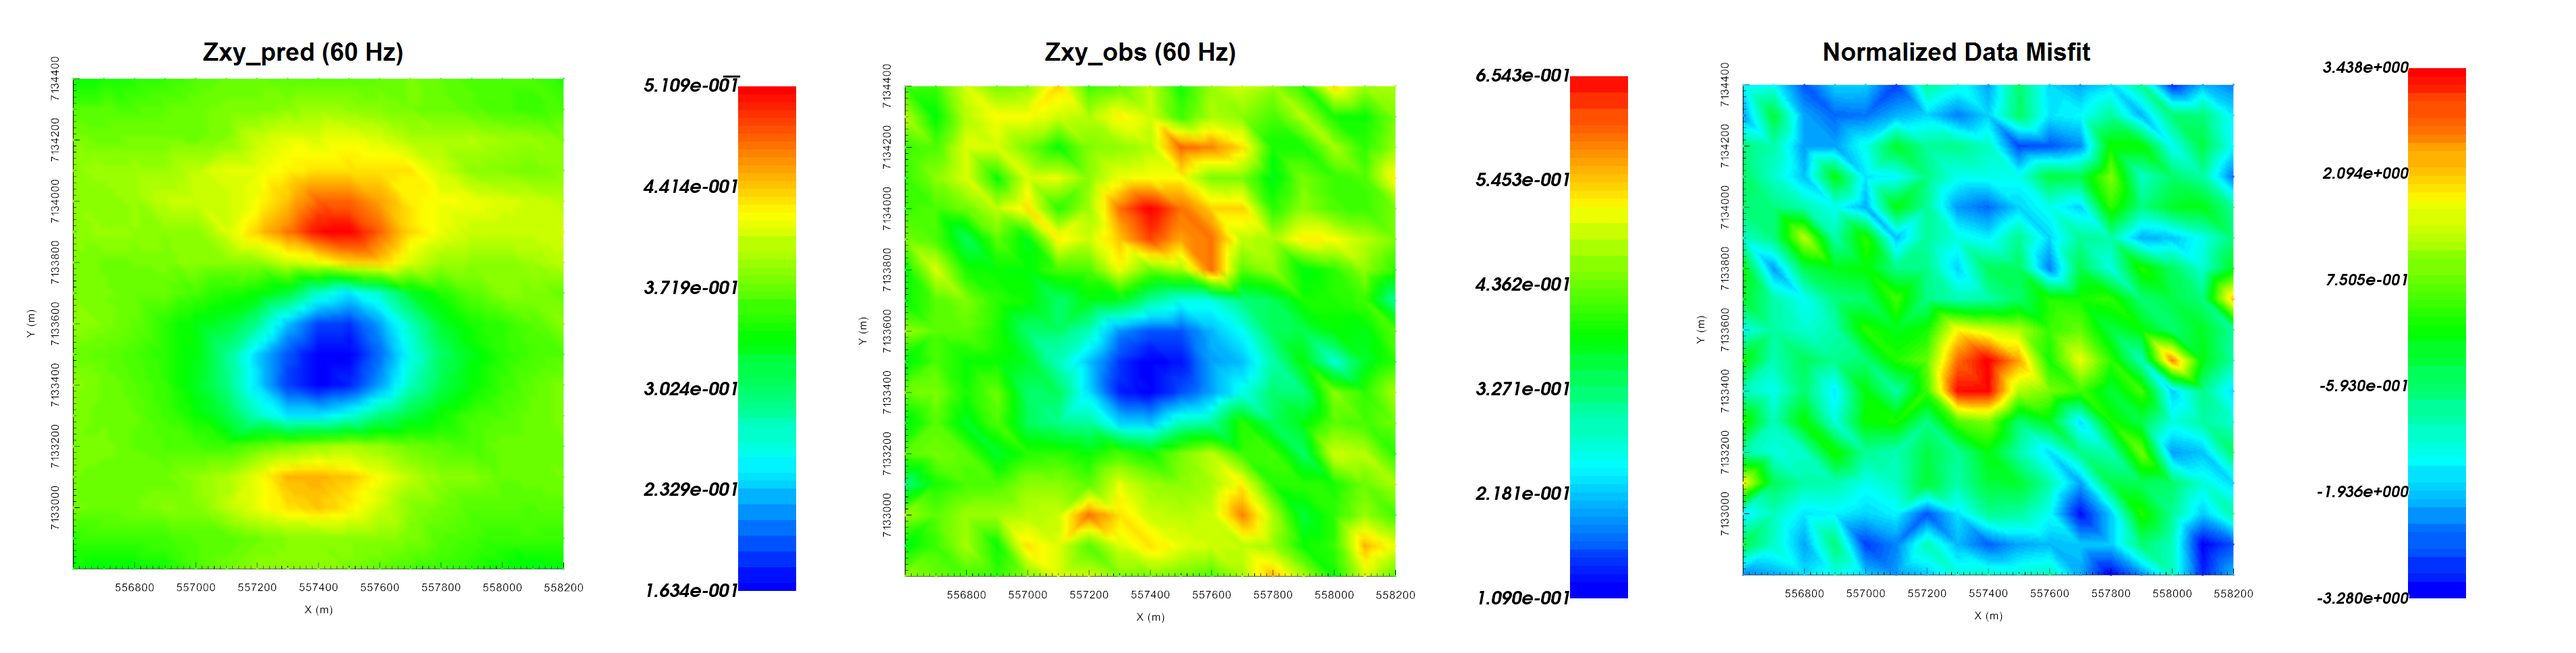
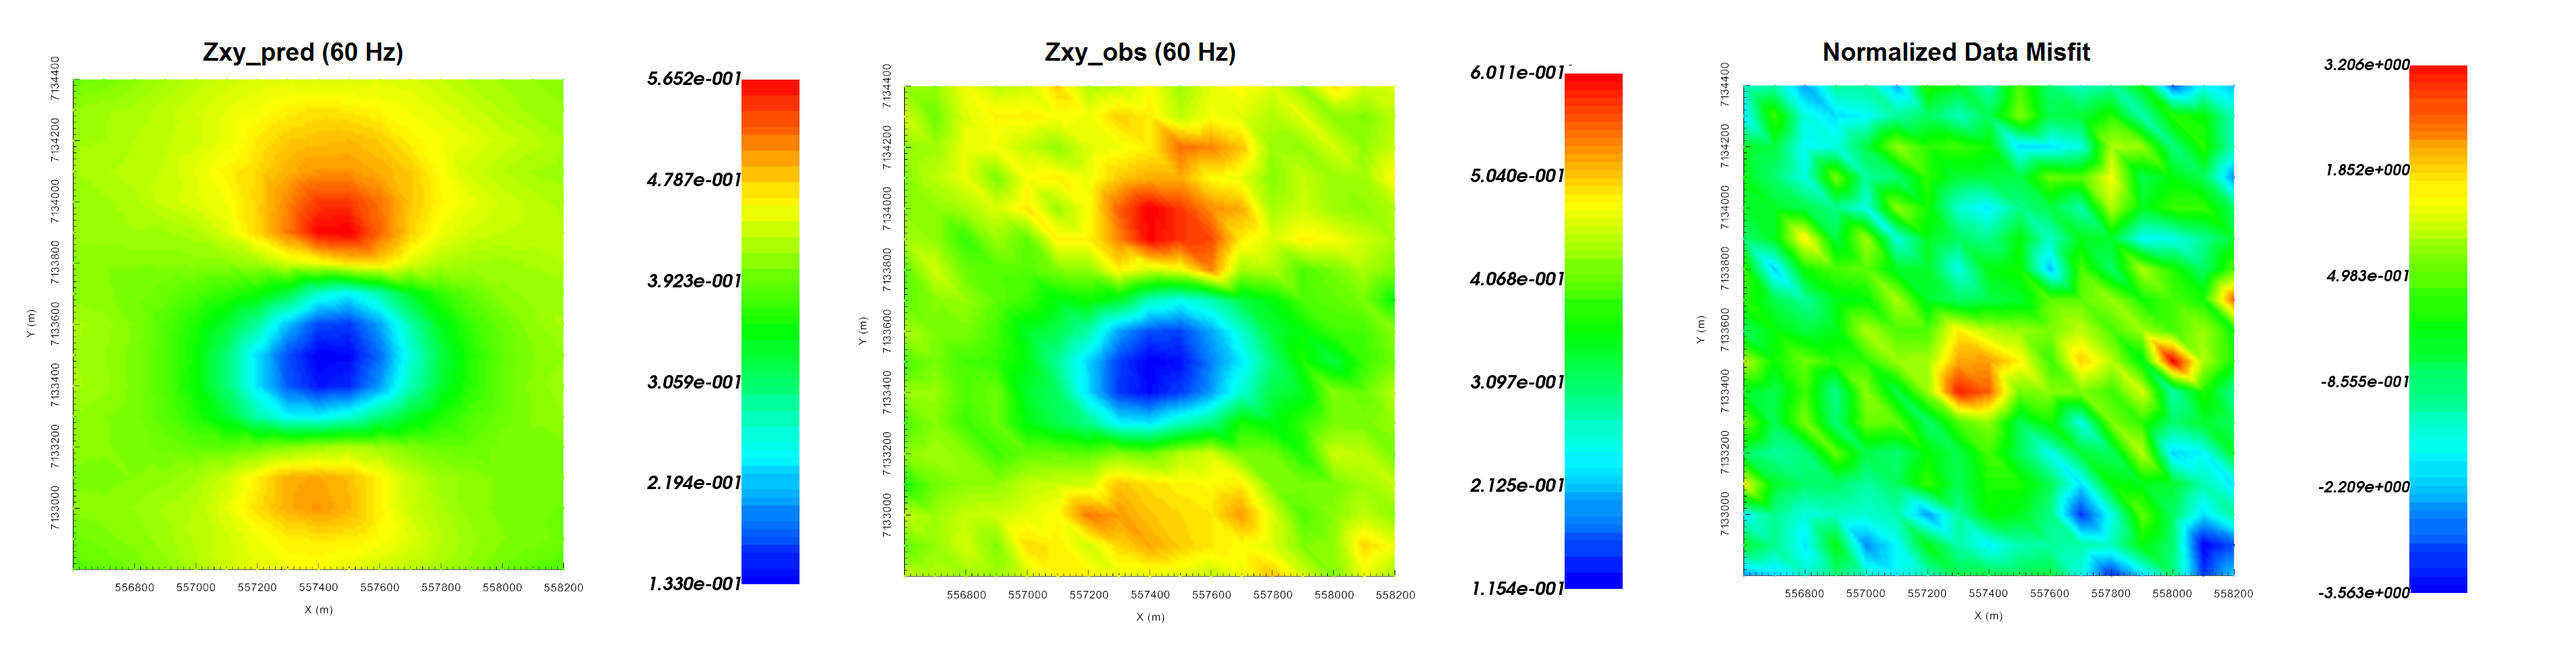
Fix MT example

diff --git a/content/AtoZ/NS/data.rst b/content/AtoZ/NS/data.rst
@@ -39,7 +39,7 @@ Import Files
     - **Pro tip:** To avoid confusion between location and data coordinate systems, use the :ref:`set data headers <objectDataHeaders>` tool to define location columns as *Easting, Northing* and *Elevation*.
 
 
-.. important:: In this case, MT and ZTEM data are in a widely used coordinate system which matches that of the GIF codes; see `GIF data format conventions<sign_conv>`. If a non-standard coordinate system is being used in the EDI files, it is imperative the user transform the data to GIF within GIFtools before inverting. This can be done by :ref:`changing data headers <objectDataHeaders>`, :ref:`multiplying certain columns by -1 <objectCalculator>` and/or :ref:`re-setting io Headers <objectSetioHeaders>`.
+.. important:: In this case, MT and ZTEM data are in a widely used coordinate system which matches that of the GIF codes; see :ref:`GIF data format conventions <signConvention>`. If a non-standard coordinate system is being used in the EDI files, it is imperative the user transform the data to GIF within GIFtools before inverting. This can be done by :ref:`changing data headers <objectDataHeaders>`, :ref:`multiplying certain columns by -1 <objectCalculator>` and/or :ref:`re-setting io Headers <objectSetioHeaders>`. To get addition background information on the coordinate systems used by the E3DMT codes, see the theory sections of the `version 1 <https://e3dmt.readthedocs.io/en/e3dmt/content/theory.html#>`_ and `version 2 <https://e3dmt.readthedocs.io/en/e3dmt_v2/content/theory.html#>`_ manuals.
 
 
 MT data
@@ -50,24 +50,24 @@ Interpretation through apparent resistivity
 
 By examining the impedances, apparent resistivities and phases, we can determine if the units of the data are correct and whether the data are in GIF format.
 
-    - Use VTK to image the off-axis impedance tensor elements :math:`Z_{xy}` and :math:`Z_{yx}`. Notice that:
+    - Use VTK to image the off-axis impedance tensor elements :math:`Z_{xy}` and :math:`Z_{yx}`. Notice that when looking at the background response:
 
         - :math:`Z_{xy}` data are in the lower-right-hand corner of the complex plane :math:`Z_{yx}` data are in the upper-left-hand corner of the complex plane
         - This is consistent with data that is in :ref:`GIFtools format <sign_mt_conv>`
 
     - :ref:`Convert impedances to apparent resistivity and phase <objectDataManipulationMT_IMP2APP>`
 
-    - Use VTK to image the apparent resistivities derived from the off-axis impedance tensor elements (image on log-scale). Notice that:
+    - Use VTK to image the apparent resistivities derived from the off-axis impedance tensor elements (image on log-scale). When looking at :math:`Z_{xy}` and :math:`Z_{yx}` for all frequencies we found that:
 
-        - The near surface resistivity of the background (:math:`\sim 200 \; \Omega m`) is less than the resistivity of the background at depth (:math:`\sim 1000 \; \Omega m`).
-        - The MT anomaly is caused by a conductor (:math:`\rho_a \sim 10^2 \, \Omega m`) and that conductor is likely does not extend to the surface.
+        - the near surface resistivity of the background (:math:`\sim 200 \; \Omega m`) is less than the resistivity of the background at depth (:math:`\sim 1000 \; \Omega m`).
+        - the MT anomaly is caused by a conductor (:math:`\rho_a \sim 10^2 \, \Omega m`) and that the conductor does not extend to the surface.
 
 
 .. figure:: ../../../images/AtoZ_E3DMT/data_impedance.png
     :align: center
     :width: 700
 
-    Real (left) and imaginary (right) components of impedance tensor element :math:`Z_{xy}` at 60 Hz in V/A. Data shows that :math:`Z_{xy}` lies in the lower-righthand quadrant of the complex plane. This is consistent with the desired format in GIFtools.
+    Real (left) and imaginary (right) components of impedance tensor elements :math:`Z_{xy}` and :math:`Z_{yx}` at 60 Hz in V/A.
 
 
 .. figure:: ../../../images/AtoZ_E3DMT/data_appres.png
@@ -82,7 +82,7 @@ Assigning uncertainties
 
 Assigning appropriate uncertainties to the data is necessary for running stable and successful inversions with GIFtools. For this exercise, we will apply simple uncertainties.
 
-    - Use :ref:`assign simple uncertainties <objectAssignUncert>` to generate uncertainties for the data. For off-diagonal impedance tensor elements, apply uncertainties of of 0.005 V/A + 10%. For all diagonal impedance tensor elements, apply uncertainties of 0.005 V/A + 20%.
+    - Use :ref:`assign simple uncertainties <objectAssignUncert>` to generate uncertainties for the data. For all data apply uncertainties of 0.0025 V/A + 5%.
     - Ensure that :ref:`IO headers are set <objectSetioHeaders>` for all uncertainties.
 
 .. important:: To demonstrate the E3DMT codes, we have chosen to apply simple uncertainties. In practice, we must ensure that we do not overfit certain frequencies and locations at the expense of others.
@@ -129,13 +129,13 @@ By examining the data, we can determine if they are in GIF format.
 
     - Use VTK to image the ZTEM data. Notice that over a compact body:
 
-        - The anomalous values in :math:`T_{zx}` lie to the North and South of the known conductor; whereas the anomalous values in :math:`T_{zy}` lie to the East and West of the known conductor. This is consistent with the data coordinates used by GIF.
+        - The anomalous values in :math:`T_{zx}` lie to the North and South of the pipe; whereas the anomalous values in :math:`T_{zy}` lie to the East and West of the pipe. For a base station which lies away from any lateral conductivity changes, this is consistent with the GIF codes.
         - When comparing real and imaginary data, the sign of the anomalies of opposite, indicating a Fourier convention of :math:`e^{-i \omega t}`. This is consistent with GIF codes.
 
     - Geosoft XYZ data files do not contain the base station location so we must define it. Thus:
 
-        - `Set base station <objectDataTypeZTEM_basestn>` at Easting = 556,600 m, Northing = 7,132,800 m and Elevation = 400 m.
-        - `Set ZTEM data type <objectDataTypeZTEM_datatype>` to *MTT*. If this is not done, horizontal fields are measured at the observation locations and not at the base station.
+        - :ref:`Set base station <objectDataTypeZTEM_basestn>` at Easting = 556,600 m, Northing = 7,132,800 m and Elevation = 400 m.
+        - :ref:`Set ZTEM data type <objectDataTypeZTEM_datatype>` to *MTT*. If this is not done, horizontal fields are measured at the observation locations and not at the base station.
 
 
 .. figure:: ../../../images/AtoZ_E3DMT/data_ztem.png
@@ -150,8 +150,21 @@ Assigning uncertainties
 
 Assigning appropriate uncertainties to the data is necessary for running stable and successful inversions with GIFtools. For this exercise, we will apply simple uncertainties.
 
-    - Use :ref:`assign simple uncertainties <objectAssignUncert>` to generate uncertainties for the data. For all data apply uncertainties of 0.001 V/A + 10%.
+    - Use :ref:`assign simple uncertainties <objectAssignUncert>` assign uncertainties to the data. Assign a floor equal to 5% the maximum value in amplitude for each component and for each frequency. The frequencies we chose are tabulated below.
     - Ensure that :ref:`IO headers are set <objectSetioHeaders>` for all uncertainties.
+
+
++---------------+--------------------------+---------------------------+
+| **Component** | :math:`\epsilon` at 60 Hz| :math:`\epsilon` at 360 Hz|
++===============+==========================+===========================+
+| TZXR          | 0.0025                   | 0.0038                    |
++---------------+--------------------------+---------------------------+
+| TZXI          | 0.001                    | 0.0006                    |
++---------------+--------------------------+---------------------------+
+| TZYR          | 0.0037                   | 0.0049                    |
++---------------+--------------------------+---------------------------+
+| TZYI          | 0.0015                   | 0.0012                    |
++---------------+--------------------------+---------------------------+
 
 .. important:: To demonstrate the E3DMT codes, we have chosen to apply simple uncertainties. In practice, we must ensure that we do not overfit certain frequencies and locations at the expense of others.
 

diff --git a/content/AtoZ/NS/mt_inversion.rst b/content/AtoZ/NS/mt_inversion.rst
@@ -11,7 +11,7 @@ The goal is to provide strategies for successful inversion and show that both co
 When inverting impedances, the E3DMT codes have a tendency to place conductive artifacts proximal to the receivers.
 To overcome this obstacle, we demonstrate a basic approach for limiting artifacts through the use of interface weights.
 
-..important:: The MT data are in GIF format; see `GIF data conventions page <signConvention>`. This means the locations are Easting-Northing-Elevation. The data convention is defined X = Northing, Y = Easting and Z = Down. Failure to recognize this will cause incorrect interpretation of the data.
+.. important:: The MT data are in GIF format; see :ref:`GIF data conventions page <signConvention>`. This means the locations are Easting-Northing-Elevation. The data convention however is defined X = Northing, Y = Easting and Z = Down. Failure to recognize this will cause incorrect interpretation of the data. To get addition background information on the coordinate systems used by the E3DMT codes, see the theory sections of the `version 1 <https://e3dmt.readthedocs.io/en/e3dmt/content/theory.html#>`_ and `version 2 <https://e3dmt.readthedocs.io/en/e3dmt_v2/content/theory.html#>`_ manuals.
 
 
 .. _AtoZNS_mt_inversion_setup:
@@ -52,7 +52,7 @@ Setup for the Exercise
 
 
 
-.. important:: Data were generated using E3DMT version 2 and a block model approximating TKC. To keep things simple, a constant topography of 400 m. Uncertainties of 0.005 :math:`\pm` 10% were added to all off-diagonal impedance tensor measurements. Uncertainties of 0.005 :math:`\pm` 20% were added to all diagonal impedance tensor measurements.
+.. important:: Data were generated using E3DMT version 2 and a block model approximating TKC. To keep things simple, a constant topography of 400 m. Uncertainties of 0.0025 :math:`\pm` 5% were added to all impedance tensor measurements.
 
 
 Reducing Artifacts through Interface Weighting
@@ -66,7 +66,7 @@ When inverting MT data, the E3DMT codes have a tendency to place conductive stru
         - set the OcTree mesh
         - set as *log model*
         - set topography as the active cells model
-        - set 4 layers of surface weights with values 20, 10, 5, and 2.5 in decreasing order
+        - set 3 layers of surface weights with values 10, 5, and 2.5 in decreasing order
         - Face value = 0.01
         - Face tolerance = 0.01
 
@@ -92,13 +92,12 @@ Let us now invert the impedance tensor data using E3DMT version 1.
             - Use *Iterative* solver unless you have sufficient RAM to use *Direct* solver.
 
         - Model Options Tab:
-            - Set *Beta cooling schedule* to 'custom by clicking button'. Use *beta max = 0.7*, *beta min = 1e-6* and *reduction factor = 0.2*
-            - Set *Chi Factor* = 1.
-            - *alpha S* = 0.0004, *alpha E* = 1, *alpha N* = 1 and *alpha Z* = 4 (to balance regularization terms based on cell dimensions)
+            - Set *Beta cooling schedule* to 'custom by clicking button'. Use *beta max = 1*, *beta min = 1e-8* and *reduction factor = 0.25*
+            - Set *Chi Factor* = 0.8 since E3DMT version 1 uses a non-standard measure of data misfit; `see manual <https://e3dmt.readthedocs.io/en/e3dmt/content/theory.html#data-misfit>`
+            - *alpha S* = 1e-10, *alpha E* = 1, *alpha N* = 1 and *alpha Z* = 2.56 (to recover smoothest model and gradient terms based on cell dimensions)
             - Use the weights object to add additional weights
             - Set the *active cells topo* as the active model cells
             - Set initial model as 0.001 S/m
-            - Set upper bound as 0.5 S/m and lower bound as 0.00001 S/m
             - Set reference model as 0.001 S/m
             - Set role in model objective function to *SMOOTH_MOD_DIF*
 
@@ -108,13 +107,13 @@ Let us now invert the impedance tensor data using E3DMT version 1.
     - :ref:`View convergence <convergence_curve>`
 
 
-The results of the inversion are shown below. We are able to recover the thickness and conductivity of the conductive overburden (:math:`\sigma \approx 0.005` S/m). We are also able to recover the approximate depth to the pipe (~100 m). Because we are not especially sensitive, it is difficult for the inversion to recover the base of the pipe.
+The results of the inversion are shown below. We are able to recover conductive pipe and estimate the thickness of the conductive overburden (:math:`\sigma \approx 0.005` S/m). We are also able to recover the approximate depth to the pipe (~100 m) and the pipe's general shape.
 
-The inversion reaches target misfit after 4 iterations. The model norm is discontinuous because the current model is set to be the reference model for the next beta value.
-The recovered model is able to reproduce the observed anomaly overall; although some of the larger normalized misfits lie on top of the anomaly.
+The inversion reaches target misfit after 3 iterations. The model norm is discontinuous because the current model is set to be the reference model for the next beta value.
+The recovered model is able to reproduce the observed anomaly quite well. And misfit map indicated we are fitting each component of the data evenly.
 
 
-.. figure:: ../../../images/AtoZ_E3DMT/inv_mt_v1_iter04.png
+.. figure:: ../../../images/AtoZ_E3DMT/inv_mt_v1_iter03.png
     :align: center
     :width: 700
 
@@ -167,13 +166,12 @@ Let us now invert the impedance tensor data using E3DMT version 2. Unlike versio
             - Use *Iterative* solver unless you have sufficient RAM to use *Direct* solver.
 
         - Model Options Tab:
-            - Set *Beta cooling schedule* to 'custom by clicking button'. Use *beta max = 0.7*, *beta min = 1e-6* and *reduction factor = 0.2*
-            - Set *Chi Factor* = 1.
-            - *alpha S* = 0.0004, *alpha E* = 1, *alpha N* = 1 and *alpha Z* = 4 (to balance regularization terms based on cell dimensions)
+            - Set *Beta cooling schedule* to 'custom by clicking button'. Use *beta max = 1*, *beta min = 1e-8* and *reduction factor = 0.25*
+            - Set *Chi Factor* = 1
+            - *alpha S* = 1e-10, *alpha E* = 1, *alpha N* = 1 and *alpha Z* = 2.56 (to recover smoothest model and gradient terms based on cell dimensions)
             - Use the weights object to add additional weights
             - Set the *active cells topo* as the active model cells
             - Set initial model as 0.001 S/m
-            - Set upper bound as 0.5 S/m and lower bound as 0.00001 S/m
             - Set reference model as 0.001 S/m
             - Set role in model objective function to *SMOOTH_MOD_DIF*
 
@@ -183,10 +181,10 @@ Let us now invert the impedance tensor data using E3DMT version 2. Unlike versio
     - :ref:`View convergence <convergence_curve>`
 
 
-The results of the inversion are shown below. We are able to recover the thickness and conductivity of the conductive overburden (:math:`\sigma \approx 0.005` S/m). We are also able to recover the approximate depth to the pipe (~100 m). Because we are not especially sensitive, it is difficult for the inversion to recover the base of the pipe.
+The results of the inversion are shown below. We are able to recover conductive pipe and estimate the thickness of the conductive overburden (:math:`\sigma \approx 0.005` S/m). We are also able to recover the approximate depth to the pipe (~100 m) and the pipe's general shape.
 
-The inversion reaches target misfit after 4 iterations. The model norm is discontinuous because the current model is set to be the reference model for the next beta value.
-The recovered model is able to reproduce the observed anomaly overall; although some of the larger normalized misfits lie on top of the anomaly.
+The inversion reaches target misfit after 3 iterations. The model norm is discontinuous because the current model is set to be the reference model for the next beta value.
+The recovered model is able to reproduce the observed anomaly quite well. And misfit map indicated we are fitting each component of the data evenly.
 
 
 .. figure:: ../../../images/AtoZ_E3DMT/inv_mt_v2_iter03.png

diff --git a/content/objectFunctionality/data/ztem/dataType.rst b/content/objectFunctionality/data/ztem/dataType.rst
@@ -14,9 +14,9 @@ Set ZTEM Data Type
 
 For the E3DMT version 1 code, there are several inversion options for inverting ZTEM data:
 
-	- MTT: A fix base station is used to measure Hx and Hy, while Hz is measured at each data locations
-	- MTE: Same as above, however the values for Hx and Hy are computed from the starting model
-	- MTH: No base station. Hx, Hy and Hz are all measured at every data location
+    - MTT: A fix base station is used to measure Hx and Hy, while Hz is measured at each data locations
+    - MTE: Same as above, however the values for Hx and Hy are computed from the starting model
+    - MTH: No base station. Hx, Hy and Hz are all measured at every data location
 
 This functionality can be accessed via:
 
@@ -24,8 +24,8 @@ This functionality can be accessed via:
 
 Some things to note about this functionality
 
-	- If the user chooses type *MTT* or *MTE*, they will need to :ref:`set/reset base station <objectDataTypeZTEM_basestn>` and set the io Header for the BASEID column to use the E3DMT version 1 code.
-	- As of right now, the E3DMT version 2 code only supports *MTH*. In the future, this may change.
+    - If the user chooses type *MTT* or *MTE*, they will need to :ref:`set/reset base station <objectDataTypeZTEM_basestn>` and set the io Header for the BASEID column to use the E3DMT version 1 code.
+    - As of right now, the E3DMT version 2 code only supports *MTH*. In the future, this may change.
 
 
 
@@ -51,8 +51,8 @@ In the pop-up window shown below, the user specifies the following:
 
 Some things to note about this functionality:
 
-	- By using this functionality, you will replace any pre-existing base stations and replace the base station index (BASEID) column
-	- A base station can be set and used within the framework of the E3DMT version 2 code.
+    - By using this functionality, you will replace any pre-existing base stations and replace the base station index (BASEID) column
+    - A base station can be set and used within the framework of the E3DMT version 2 code.
 
 
 .. _objectDataTypeZTEM_snid:

diff --git a/content/AtoZ/NS/ztem_inversion.rst b/content/AtoZ/NS/ztem_inversion.rst
@@ -11,7 +11,7 @@ The goal is to provide strategies for successful inversion and show that both co
 When inverting impedances, the E3DMT codes have a tendency to place conductive artifacts proximal to the receivers.
 To overcome this obstacle, we demonstrate a basic approach for limiting artifacts through the use of interface weights.
 
-..important:: The ZTEM data are in GIF format; see `GIF data conventions page <signConvention>`. This means the locations are Easting-Northing-Elevation. The data convention is defined X = Northing, Y = Easting and Z = Down. Failure to recognize this will cause incorrect interpretation of the data.
+..important:: The ZTEM data are in GIF format; see `GIF data conventions page <signConvention>`. This means the locations are Easting-Northing-Elevation. The data convention is defined X = Northing, Y = Easting and Z = Down. Failure to recognize this will cause incorrect interpretation of the data. To get addition background information on the coordinate systems used by the E3DMT codes, see the theory sections of the `version 1 <https://e3dmt.readthedocs.io/en/e3dmt/content/theory.html#>`_ and `version 2 <https://e3dmt.readthedocs.io/en/e3dmt_v2/content/theory.html#>`_ manuals.
 
 .. _AtoZNS_ztem_inversion_setup:
 
